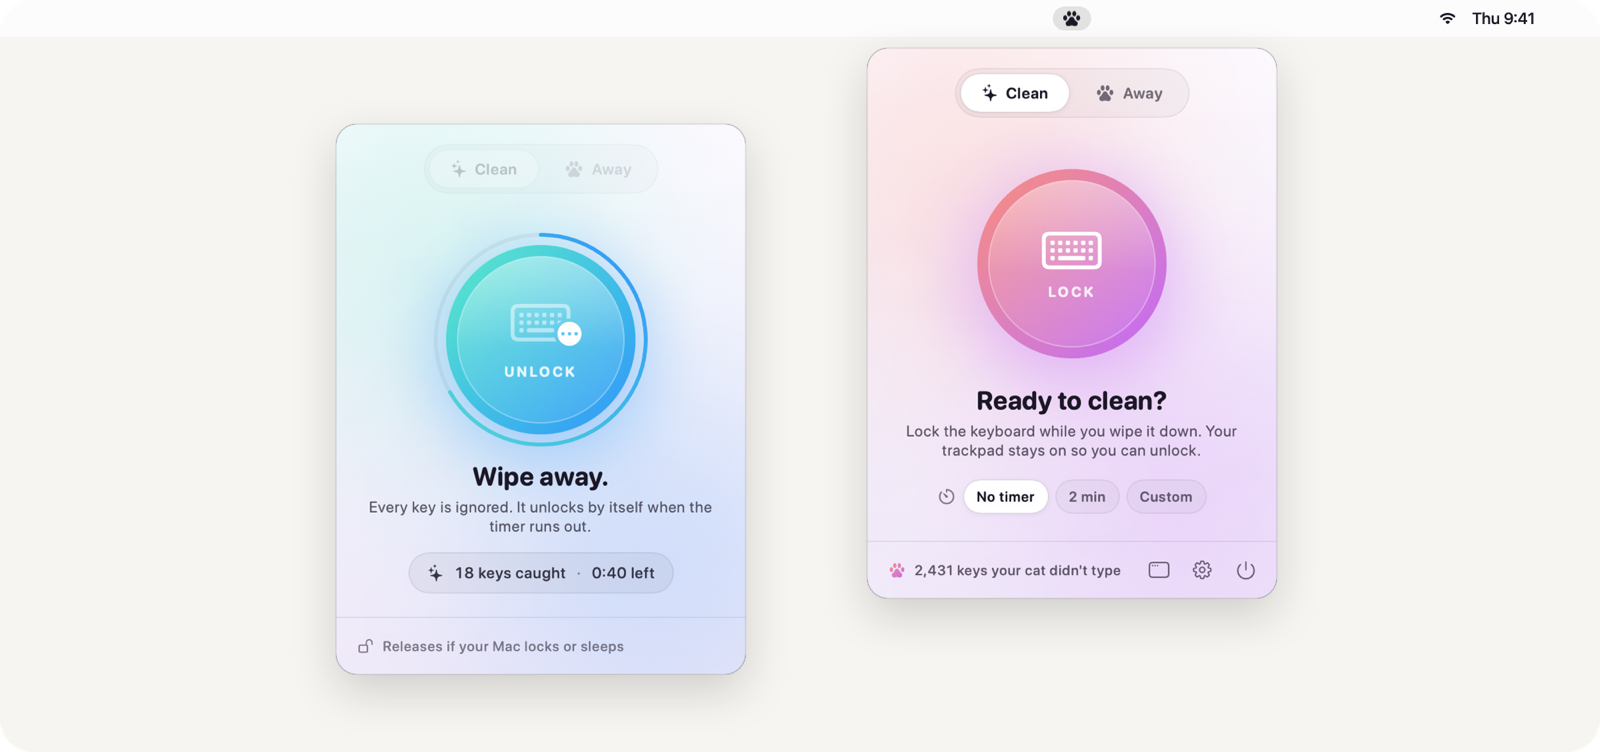
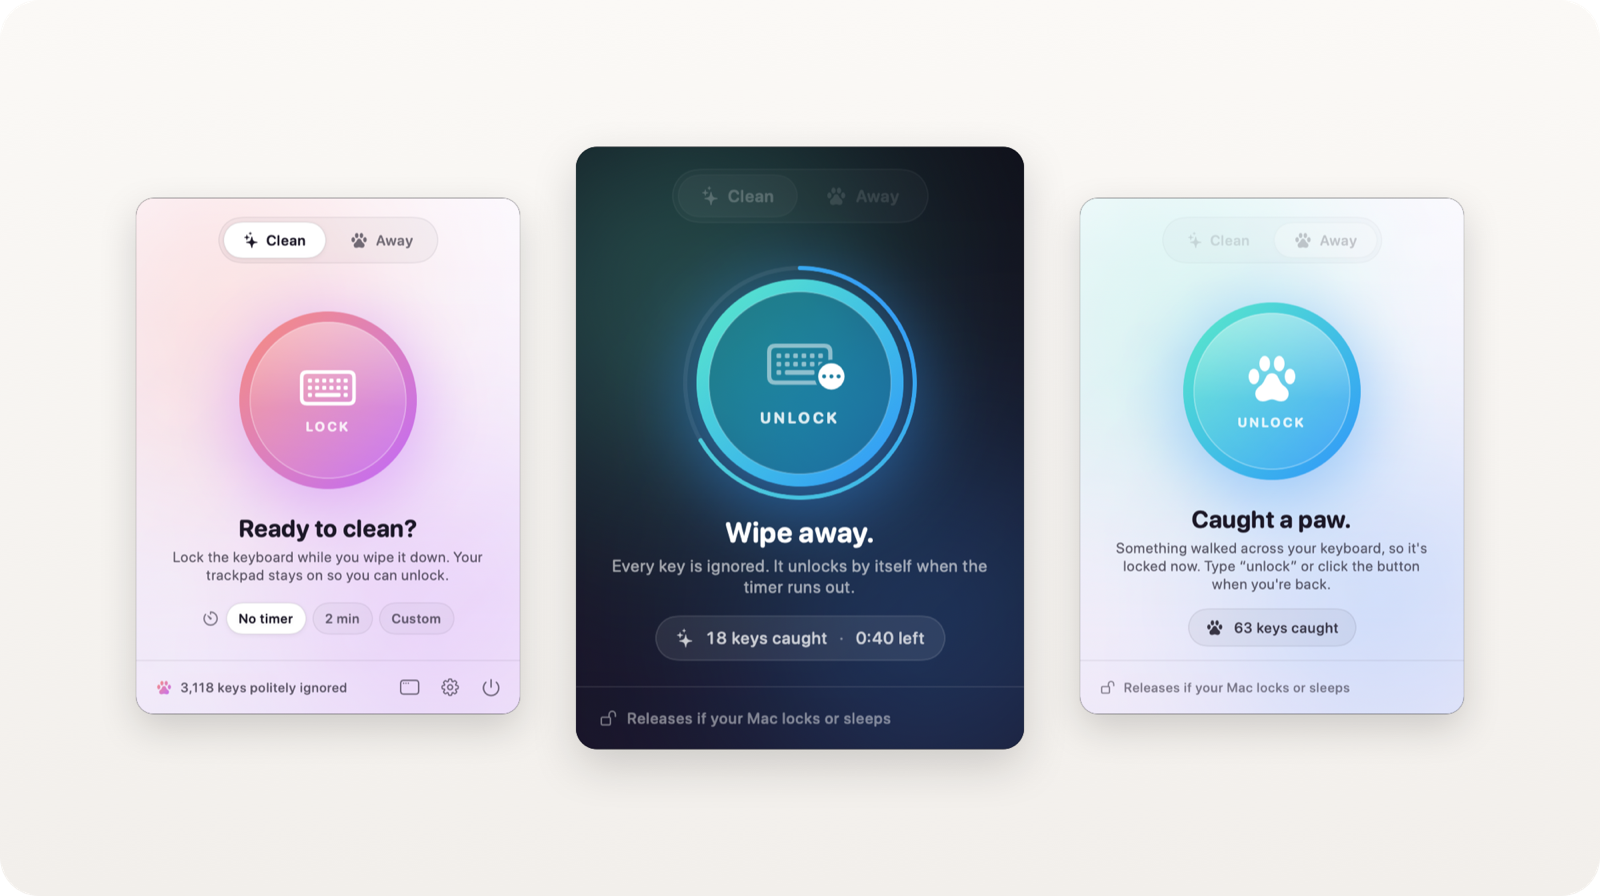
README: bring back the three-screen hero on calm light and dark backgrounds

diff --git a/Tools/make-readme-art.swift b/Tools/make-readme-art.swift
@@ -55,45 +55,34 @@ func drawWindow(_ image: NSImage, in rect: NSRect, radius: CGFloat, softShadow: 
     path.stroke()
 }
 
-func symbol(_ name: String, size: CGFloat, color: NSColor, at center: NSPoint) {
-    let config = NSImage.SymbolConfiguration(pointSize: size, weight: .semibold).applying(.init(paletteColors: [color]))
-    guard let image = NSImage(systemSymbolName: name, accessibilityDescription: nil)?.withSymbolConfiguration(config) else { return }
-    image.draw(in: NSRect(x: center.x - image.size.width / 2, y: center.y - image.size.height / 2, width: image.size.width, height: image.size.height))
-}
-
-// Hero: a desktop scene, no text (the README title sits above it). The menu bar with the panel
-// dropping down from the paw, and the window floating beside it: both places Paws Off lives.
-// One solid background, no glows; a light and a dark version, and the README shows whichever
-// matches the reader's GitHub theme.
+// Hero: three key screens (the menu bar panel, locked with a timer, a caught paw). Calm, solid
+// backgrounds with just a soft fall of light, no glows; a light and a dark version, and the README
+// shows whichever matches the reader's GitHub theme.
 for theme in ["light", "dark"] {
     let dark = theme == "dark"
-    let ink = dark ? rgb(0.96, 0.95, 0.98) : rgb(0.106, 0.090, 0.149)
-    let size = NSSize(width: 2000, height: 940)
+    let size = NSSize(width: 2000, height: 1120)
     let rep = canvas(size) {
         let bounds = NSRect(origin: .zero, size: size)
-        let bg = NSBezierPath(roundedRect: bounds, xRadius: 40, yRadius: 40)
+        let bg = NSBezierPath(roundedRect: bounds, xRadius: 48, yRadius: 48)
         bg.addClip()
-        (dark ? rgb(0.086, 0.075, 0.114) : rgb(0.969, 0.961, 0.949)).setFill()
-        bounds.fill()
+        // One colour, a touch lighter at the top, like light falling on a desk.
+        let top = dark ? rgb(0.118, 0.106, 0.153) : rgb(0.984, 0.976, 0.965)
+        let bottom = dark ? rgb(0.075, 0.067, 0.098) : rgb(0.949, 0.937, 0.922)
+        NSGradient(starting: top, ending: bottom)!.draw(in: bounds, angle: -90)
 
-        // Menu bar: the paw (highlighted, its panel is open), Wi-Fi and the clock.
-        let barH: CGFloat = 46, barY = size.height - barH
-        (dark ? rgb(1, 1, 1, 0.06) : rgb(1, 1, 1, 0.75)).setFill()
-        NSRect(x: 0, y: barY, width: size.width, height: barH).fill()
-        let pawX: CGFloat = 1340
-        (dark ? rgb(1, 1, 1, 0.16) : rgb(0, 0, 0, 0.10)).setFill()
-        NSBezierPath(roundedRect: NSRect(x: pawX - 24, y: barY + 8, width: 48, height: 30), xRadius: 15, yRadius: 15).fill()
-        symbol("pawprint.fill", size: 19, color: ink, at: NSPoint(x: pawX, y: barY + barH / 2))
-        symbol("wifi", size: 18, color: ink, at: NSPoint(x: size.width - 190, y: barY + barH / 2))
-        ("Thu 9:41" as NSString).draw(at: NSPoint(x: size.width - 160, y: barY + 11),
-                                      withAttributes: [.font: NSFont.systemFont(ofSize: 20, weight: .medium), .foregroundColor: ink])
-
-        // The panel, centred under the paw, and the window (locked, timer running) beside it.
-        let card = NSSize(width: 512, height: 688) // 320x430 card at 1.6x
-        drawWindow(screen("menu-bar-panel", theme: theme), in: NSRect(x: pawX - card.width / 2, y: barY - 14 - card.height, width: card.width, height: card.height),
+        let side = NSSize(width: 480, height: 645)   // 320x430 card at 1.5x
+        let middle = NSSize(width: 560, height: 753) // 1.75x
+        let gap: CGFloat = 70
+        let total = side.width * 2 + middle.width + gap * 2
+        var x = (size.width - total) / 2
+        drawWindow(screen("menu-bar-panel", theme: "light"), in: NSRect(x: x, y: (size.height - side.height) / 2 - 10, width: side.width, height: side.height),
+                   radius: 22, softShadow: !dark)
+        x += side.width + gap
+        drawWindow(screen("cleanTimer"), in: NSRect(x: x, y: (size.height - middle.height) / 2, width: middle.width, height: middle.height),
                    radius: 26, softShadow: !dark)
-        drawWindow(screen("cleanTimer", theme: theme), in: NSRect(x: 420, y: (barY - card.height) / 2 - 6, width: card.width, height: card.height),
-                   radius: 26, softShadow: !dark)
+        x += middle.width + gap
+        drawWindow(screen("pawsDetected", theme: "light"), in: NSRect(x: x, y: (size.height - side.height) / 2 - 10, width: side.width, height: side.height),
+                   radius: 22, softShadow: !dark)
     }
     save(rep, "hero-\(theme).png")
 }

diff --git a/README.md b/README.md
@@ -26,7 +26,7 @@ Wipe it down without typing gibberish — or step away without your cat writing 
 
 <picture>
   <source media="(prefers-color-scheme: dark)" srcset="docs/images/hero-dark.png">
-  <img src="docs/images/hero-light.png" alt="Paws Off: the panel dropping down from the menu bar paw, and the window locked with a timer running" width="100%">
+  <img src="docs/images/hero-light.png" alt="Paws Off in the menu bar, locked with a timer, and after catching a paw" width="100%">
 </picture>
 
 </div>
